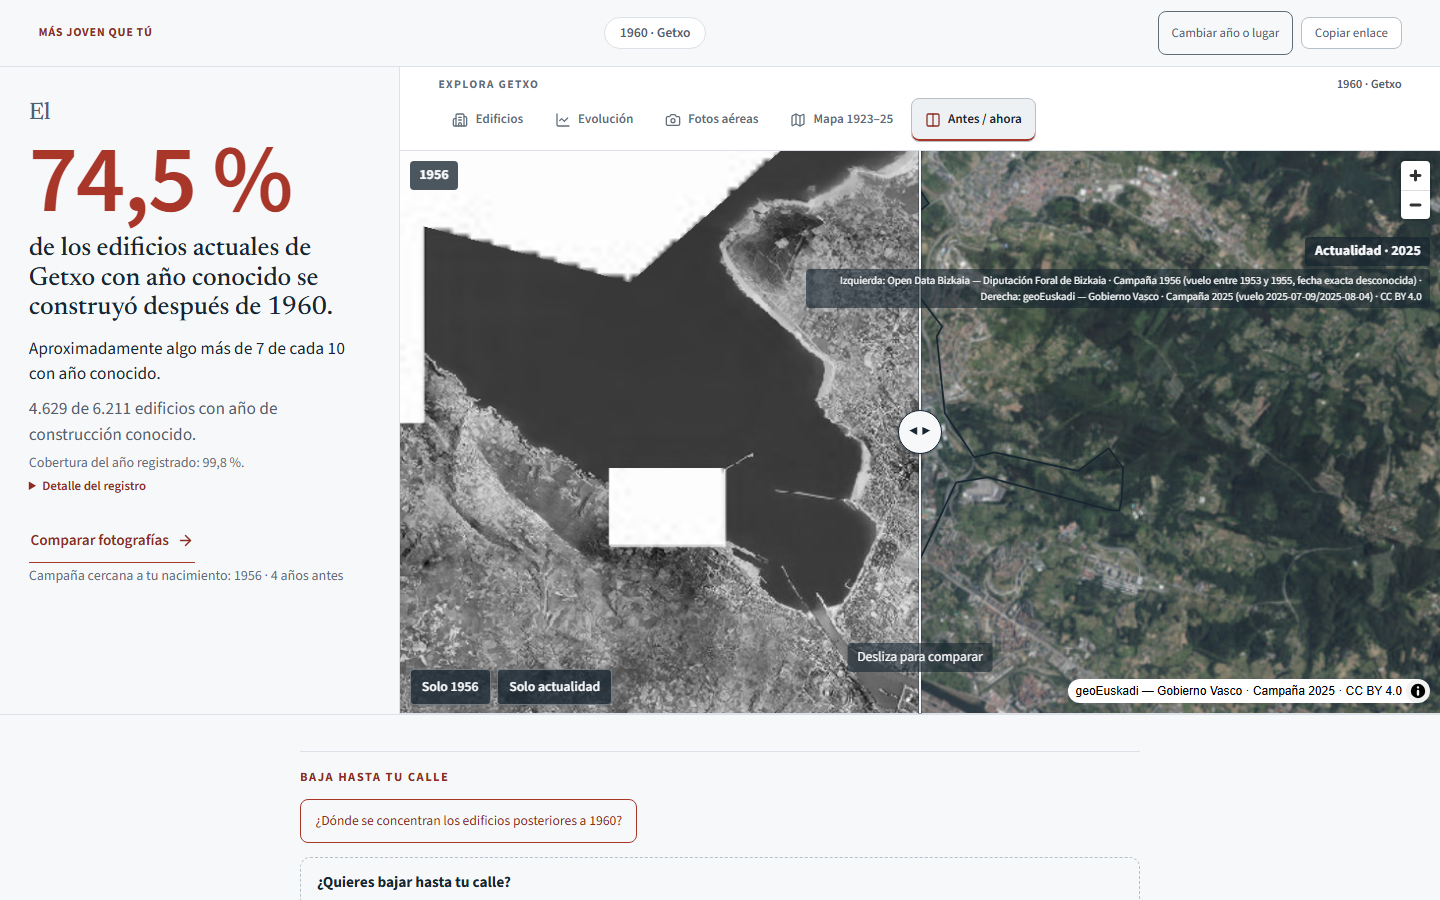
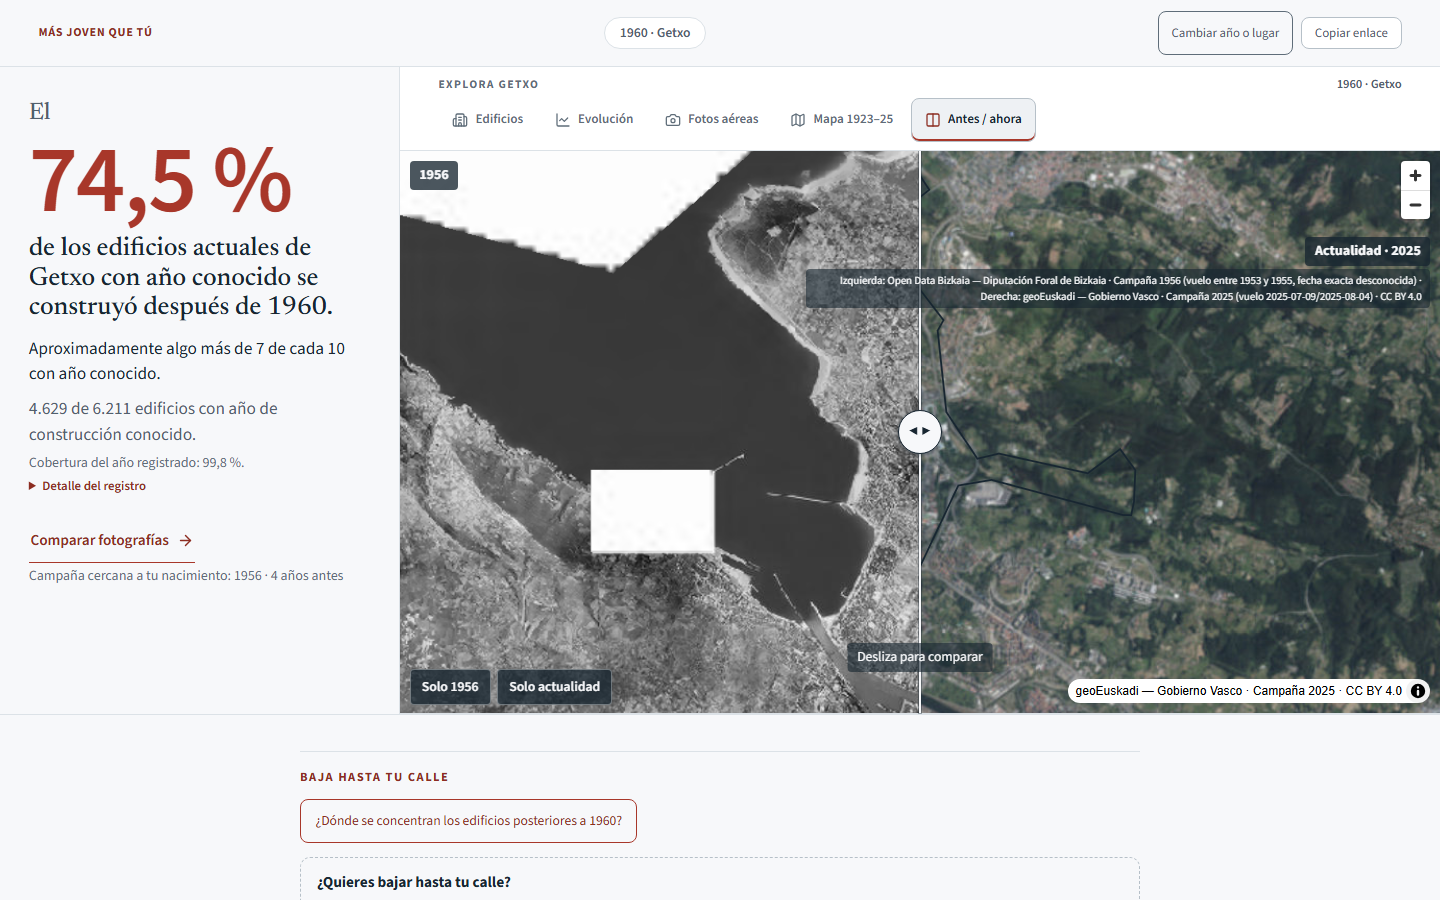
docs+evidence: hueco de cobertura 1956 verificado en produccion; ERR_ABORTED estricto

Changed region(s): [[0.25, 0.1556, 1.0, 0.8089], [0.3125, 0.7778, 0.375, 0.8089]]

diff --git a/docs/gates/G11.md b/docs/gates/G11.md
@@ -178,3 +178,21 @@ sincronización, recuperación y rigor; sin rediseño. Cambios:
 Batería: `pytest` 45/45 · `format`/`lint`/`check` limpio (2 warnings
 preexistentes) · `test` 183/183 · `g5_swipe`/`perf4`/`g2b`/`g10` pass
 con stubs · `/como-lo-sabemos` directo verificado.
+
+**G11.3b — verificación de producción sin stubs.** Deploy `gh-pages`
+`d8d3753` = build de `0e9fb73` (rollback: `9918b37`). Sonda
+`prod_smoke.mjs` contra el sitio real: base path sin duplicar, hero real,
+NORA real («getx»→Getxo), titular gramatical, swipe 1988→1960 con **16
+requests reales a ORTO_BFA_1956 y 0 a ORTO_1989**, atribución por lado con
+«vuelo entre 1953 y 1955, fecha exacta desconocida», `/como-lo-sabemos`
+directo con estilos correctos, PMTiles `206`+`Content-Range`, 0 pageerrors.
+
+Investigación del rectángulo claro sobre la ría (auditoría): persiste tras
+carga completa, ligado a geografía, se ve el fondo (`bg` rojo → caja roja)
+= **hueco de cobertura del mosaico oficial 1956** (fotograma enmascarado;
+teselas alpha=0, preview JPEG claro — ver `DATA_SOURCES.md` §2.4). No es
+fallo de carga ni tesela en blanco.
+
+`ERR_ABORTED` reclasificado en `prod_smoke`: benigno solo si es tesela/
+servicio externo sustituido por interacción Y la vista termina sin requests
+en vuelo; aborts de recursos propios cuentan como fallo.

diff --git a/docs/DATA_SOURCES.md b/docs/DATA_SOURCES.md
@@ -212,7 +212,12 @@ Generador: `pipeline/build_ortho_previews.py`. Provenance completo por fichero e
   - **1956**: contactos del vuelo para Catastro 1956, ~1:12000, **fecha sin determinar
     entre 1953 y 1955** (ortoimagen generada 2019). ⇒ `flight_range: "entre 1953 y
     1955, fecha exacta desconocida"` (G11.3: el intervalo verificado se muestra con
-    su incertidumbre); no es el vuelo americano 1956-57.
+    su incertidumbre); no es el vuelo americano 1956-57. **Cobertura**: el mosaico
+    tiene huecos rectangulares sin imagen (fotogramas enmascarados/no escaneados,
+    p. ej. sobre la ría frente a Getxo); las teselas los codifican como alpha=0 y el
+    preview JPEG como píxeles claros — se ven el fondo de la página. Es fidelidad a
+    la fuente, no un fallo de carga (verificado en producción, G11.3:
+    `evidence/g11/prod-swipe-1956-loaded.png`).
   - **1965**: 3 vuelos parciales 1963 y 1965, ~1:20000, píxel 0,50 m, generada 2015.
   - **1975**: vuelo mayo 1975, 1:7000, píxel 0,10 m, generada 2018.
   - **1983**: vuelo junio 1983, 1:18000, píxel 0,50 m, generada 2015.
